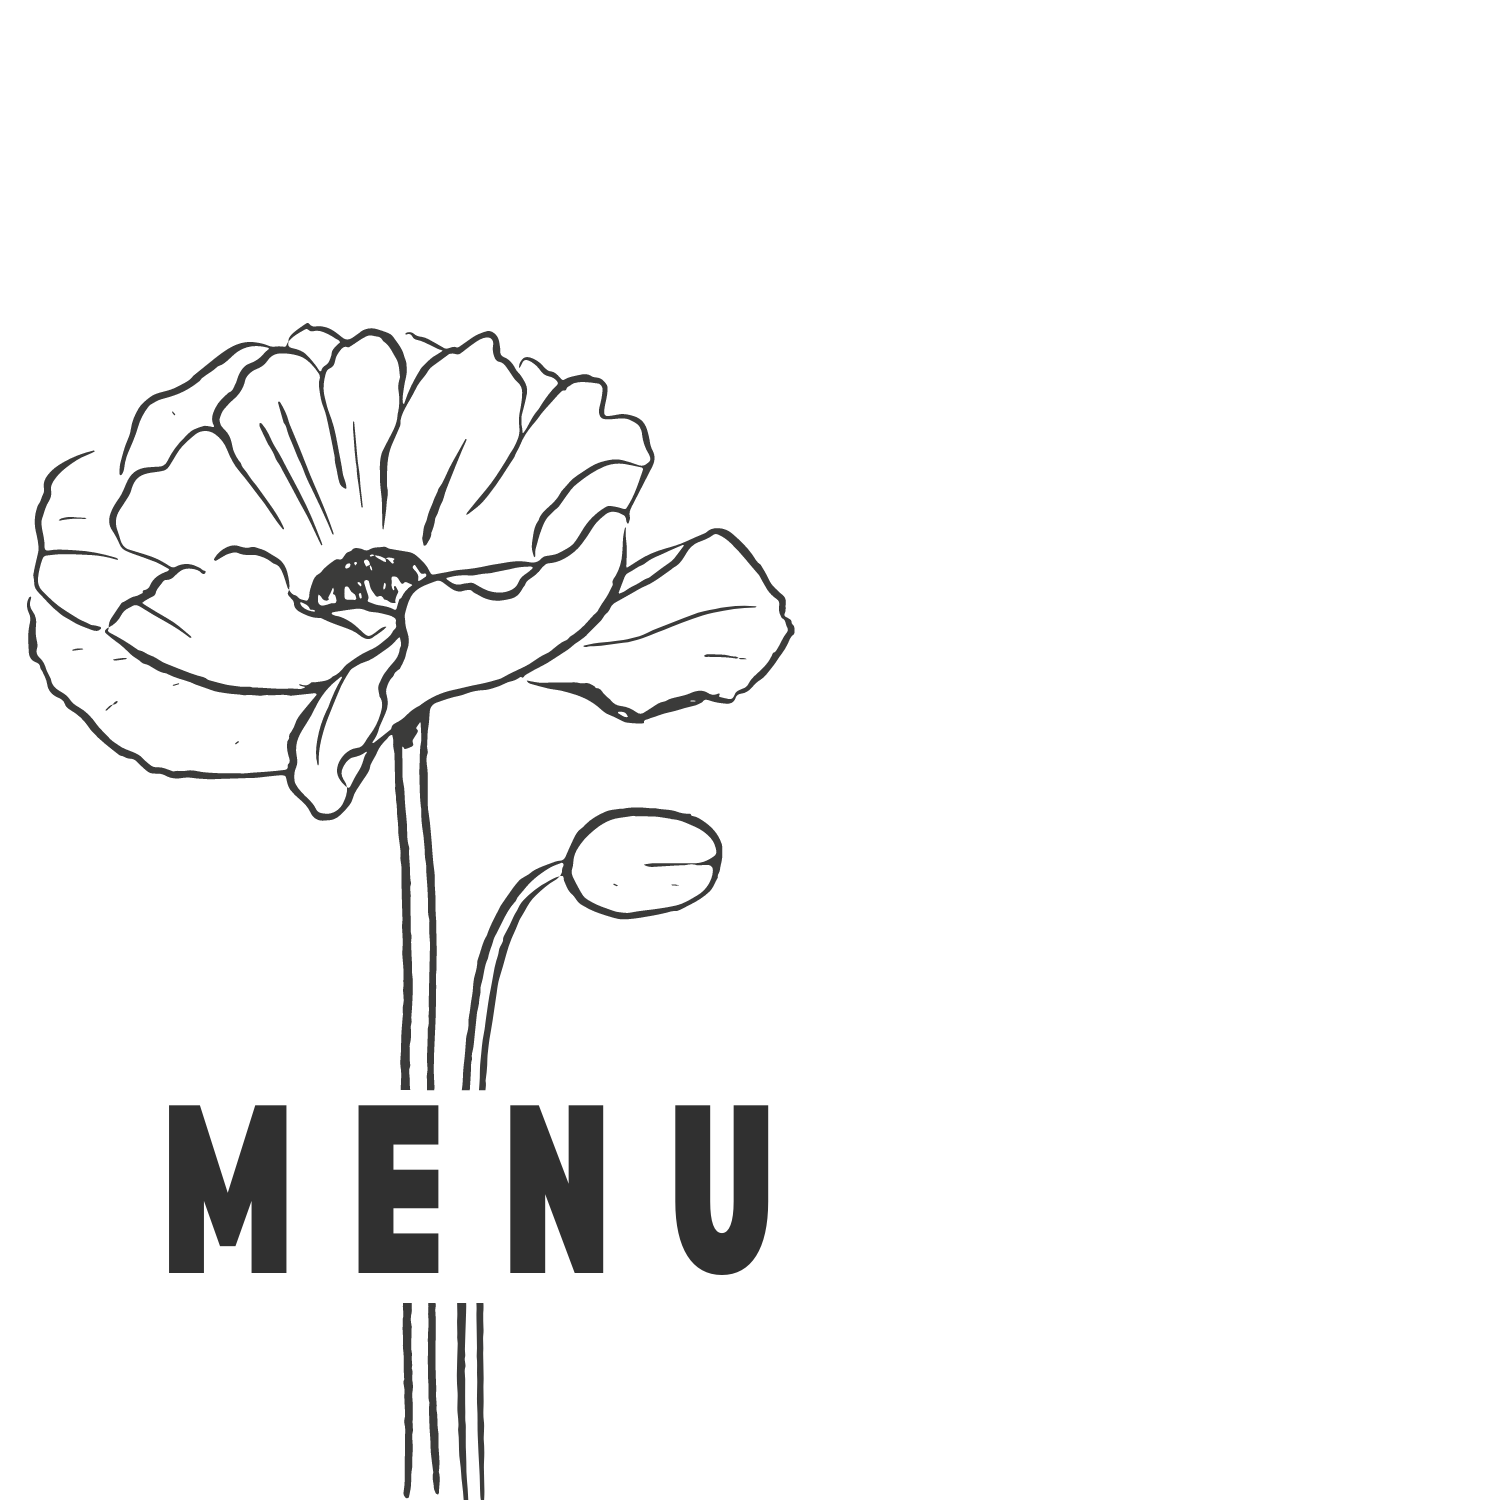
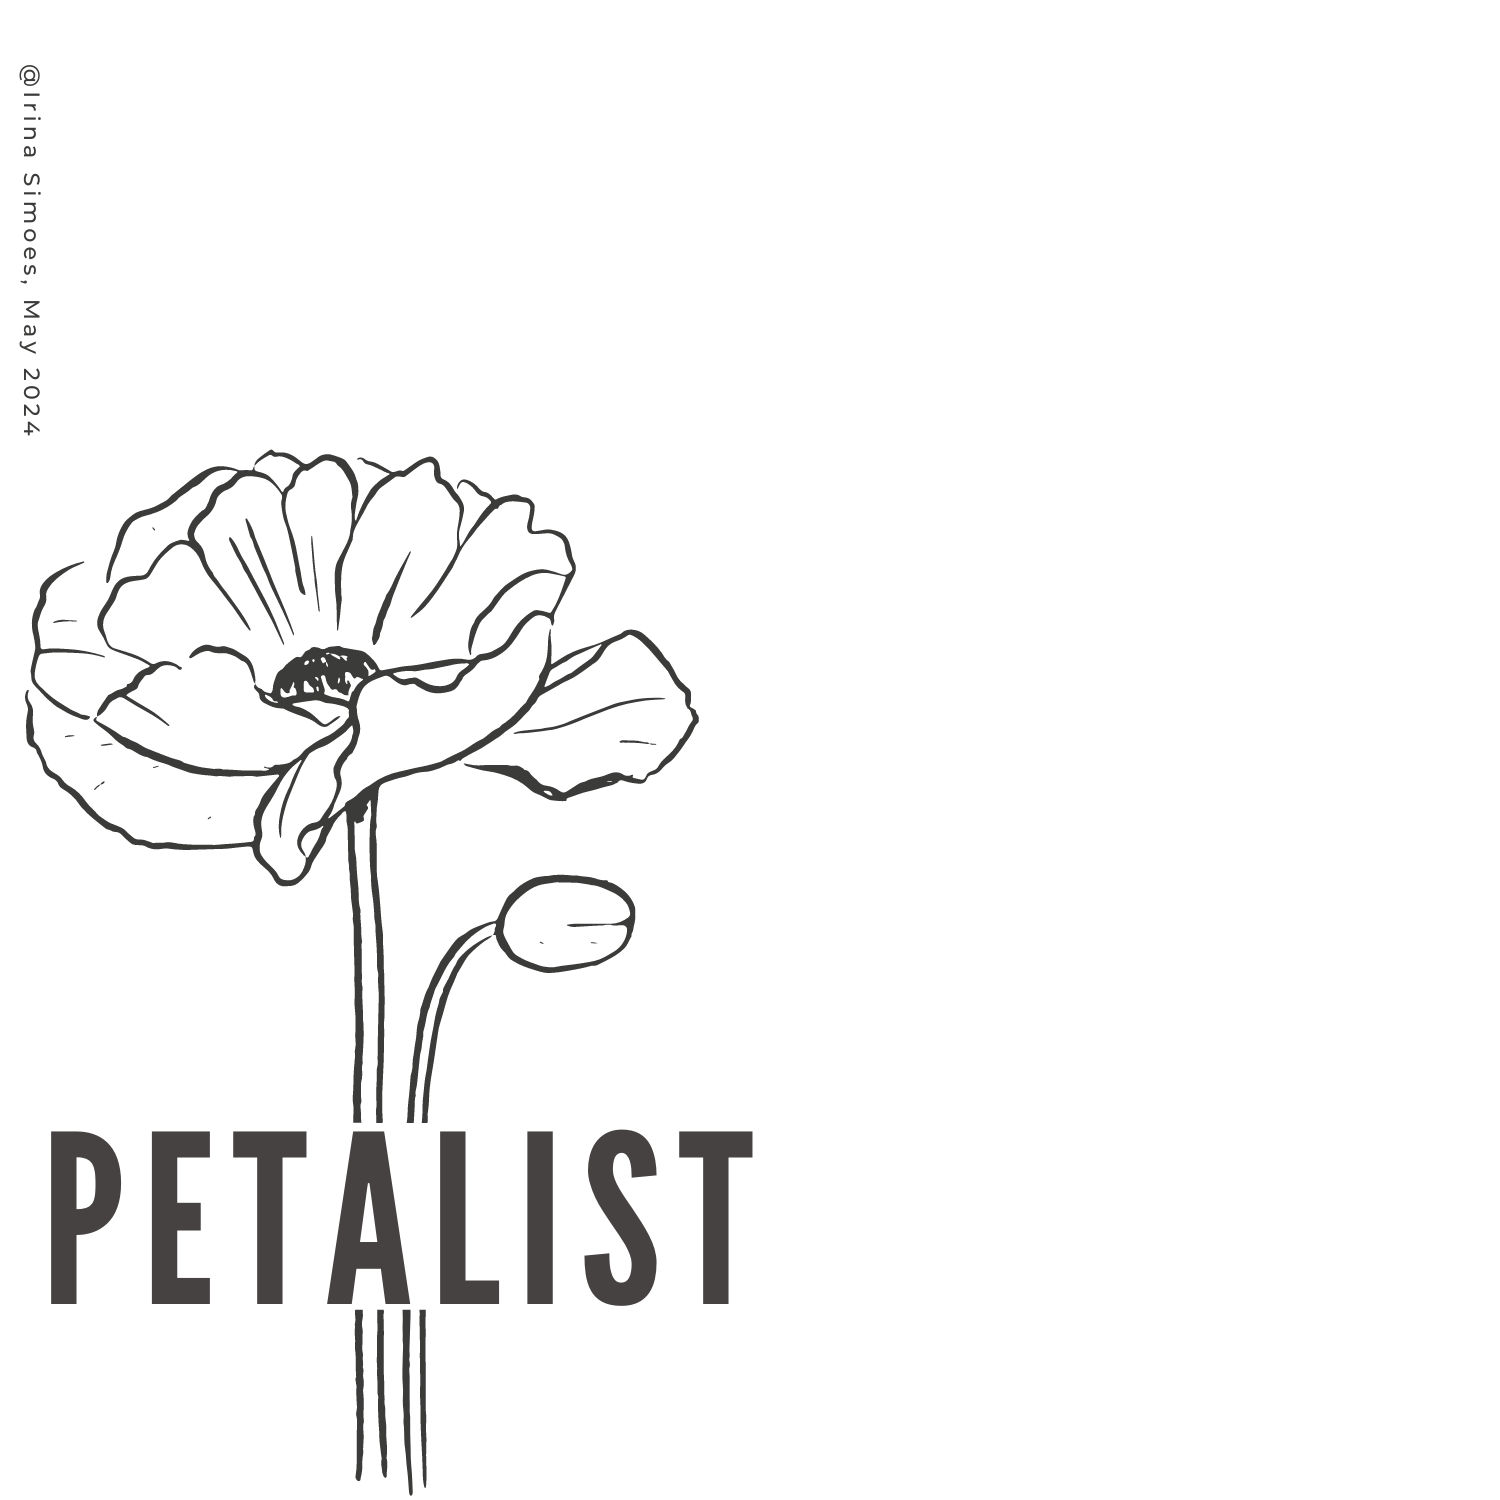
Argparse added to take username that shows in the opening menu from an argument on the command line

diff --git a/analysis.py b/analysis.py
@@ -1,57 +1,100 @@
 import tkinter as tk
 from tkinter import messagebox
 import tkinter.font as font
+import argparse
 
-def option1():
-    messagebox.showinfo("Option 1", "You clicked Option 1")
 
-def option2():
-    messagebox.showinfo("Option 2", "You clicked Option 2")
+def opening_menu(username):
 
-def option3():
-    messagebox.showinfo("Option 3", "You clicked Option 3")
+    def option1():
+        messagebox.showinfo("Option 1", "You clicked Option 1")
 
-# Create the main window
-root = tk.Tk()
-root.title("Programming & Scripting || Iris Dataset Analysis")
+    def option2():
+        messagebox.showinfo("Option 2", "You clicked Option 2")
 
-# Load image
-image = tk.PhotoImage(file="C:/Users/ifs/OneDrive/Documents/ATU/Programming & Scripting/pands-project/images/menu_background2.png")
-image = image.subsample(2, 2)  # Resize by a factor of 2 in both dimensions
+    def option3():
+        messagebox.showinfo("Option 3", "You clicked Option 3")
 
-# Create a label to display the image
-image_label = tk.Label(root, image=image)
-image_label.place(x=0, y=0, relwidth=1, relheight=1)  # Fill the entire window with the image
+    # Create the main window
+    root = tk.Tk()
+    root.title("PETALIST || Iris Dataset Analysis")
 
-# Create Font object
-# https://pythonexamples.org/python-tkinter-button-change-font/
-# https://www.geeksforgeeks.org/tkinter-fonts/
-font_buttons = font.Font(family='Agency FB', size=10, weight="bold")
-font_label_heading = font.Font(family='Agency FB', size=26, weight="bold")
-font_label_text = font.Font(family='Agency FB', size=12)
+    # Load image
+    image = tk.PhotoImage(file="C:/Users/ifs/OneDrive/Documents/ATU/Programming & Scripting/pands-project/images/menu_background.png")
+    image = image.subsample(2, 2)  # Resize by a factor of 2 in both dimensions
 
-# Create labels for text
-label1 = tk.Label(root, fg="gray9", bg="white", text="Hello Irina,", font=font_label_heading)
-label1.place(relx=0.60, rely=0.3, anchor="sw")
-label2 = tk.Label(root, fg="gray9", bg="white", text="\nWelcome to the Iris dataset analysis program.\nPlease select one of the options below:        .", font=font_label_text)
-label2.place(relx=0.60, rely=0.4, anchor="sw", )
+    # Create a label to display the image
+    image_label = tk.Label(root, image=image)
+    image_label.place(x=0, y=0, relwidth=1, relheight=1)  # Fill the entire window with the image
 
-# Create buttons
-# Colours: https://cs111.wellesley.edu/archive/cs111_fall14/public_html/labs/lab12/tkintercolor.html
-button1 = tk.Button(root, text=".get descriptive summary", command=option1, bg="white", fg="gray9")
-button1.place(relx=0.65, rely=0.5, anchor="center")  # Place button relative to the center of the window
-button1['font'] = font_buttons
+    # Create Font object
+    # https://pythonexamples.org/python-tkinter-button-change-font/
+    # https://www.geeksforgeeks.org/tkinter-fonts/
+    font_buttons = font.Font(family='Agency FB', size=10, weight="bold")
+    font_label_heading = font.Font(family='Agency FB', size=26, weight="bold")
+    font_label_text = font.Font(family='Agency FB', size=12)
 
-button2 = tk.Button(root, text=".generate histogram", command=option2, bg="white", fg="gray9")
-button2.place(relx=0.64, rely=0.6, anchor="center")  # Place button relative to the center of the window
-button2['font'] = font_buttons
+    # Create labels for text
+    label1 = tk.Label(root, fg="gray9", bg="white", text=f"Hello {username},", font=font_label_heading)
+    label1.place(relx=0.55, rely=0.2, anchor="sw")
+    label2 = tk.Label(root, fg="gray9", bg="white", text="\nWelcome to Petalist, the Iris dataset analysis program.\nPlease select one of the options below:                   .", font=font_label_text)
+    label2.place(relx=0.55, rely=0.3, anchor="sw")
 
-button3 = tk.Button(root, text=".generate pair scatter plot", command=option3, bg="white", fg="gray9")
-button3.place(relx=0.65, rely=0.7, anchor="center")  # Place button relative to the center of the window
-button3['font'] = font_buttons
+    # Create buttons
+    # Colours: https://cs111.wellesley.edu/archive/cs111_fall14/public_html/labs/lab12/tkintercolor.html
+    button1 = tk.Button(root, text=".get descriptive summary", command=option1, bg="white", fg="gray9")
+    button1.place(relx=0.60, rely=0.4, anchor="center")  # Place button relative to the center of the window
+    button1['font'] = font_buttons
 
-# Maximize the window
-root.state('zoomed')
+    button2 = tk.Button(root, text=".generate histogram", command=option2, bg="white", fg="gray9")
+    button2.place(relx=0.59, rely=0.5, anchor="center")  # Place button relative to the center of the window
+    button2['font'] = font_buttons
 
-# Run the main event loop
-root.mainloop()
+    button3 = tk.Button(root, text=".generate pair scatter plot", command=option3, bg="white", fg="gray9")
+    button3.place(relx=0.60, rely=0.6, anchor="center")  # Place button relative to the center of the window
+    button3['font'] = font_buttons
+
+    # Maximize the window
+    root.state('zoomed')
+
+    # Run the main event loop
+    root.mainloop()
+
+
+# ---------------------------------- MAIN CODE ---------------------------------- #
+
+# Wrap code in a try-except statement to handle errors in case arguments are not provided in the cmd line
+try:
+    '''
+    Initialise the ArgumentParser object, will allows for cmd line arguments to be defined.
+    Customise thethe parser by:
+        (1) specifying the program name that will be used in the usage message;
+        (2) defining a general description for the program and a closing message.
+    The prog arg can be interpolatedprog into the epilog string using the old-style string formatting operator %.
+    Given that f-strings replace names with their values as they run, the program will crashwith a NameError.
+    '''
+    parser = argparse.ArgumentParser(
+    prog="analysis.py",
+    description="Petalist is a program that runs an analysis on Fisher's Iris dataset.",
+    epilog="Thanks for using %()s!"
+    )
+
+    '''
+    Define optional arguments for the filename and the Wikipedia's query with the following params:
+        (1) Set long and short form flags;
+        (2) Set required to false so that the program don't throw an error if no arguments are provided in the cmd line, 
+            but rather handle the error in the below try-except statement;
+        (3) Set metavar to empty to clean up the -h message by not showing the uppercase dest values (FILENAME and QUERY);
+        (4) Set the helper with a brief description of what the argument does.
+    '''
+    parser.add_argument("-n", "--username", metavar="", required=True, help='Please enter your name.')
+    args = parser.parse_args()
+
+    # Declare constant variables 
+    USERNAME = args.username    # Assign the filename provided in the cmd line to FILENAME using the dot notation on args
+    opening_menu(USERNAME)
+
+except: 
+    # Print a help message, including the program usage and information about the arguments defined with the ArgumentParser
+    parser.print_help()
+
